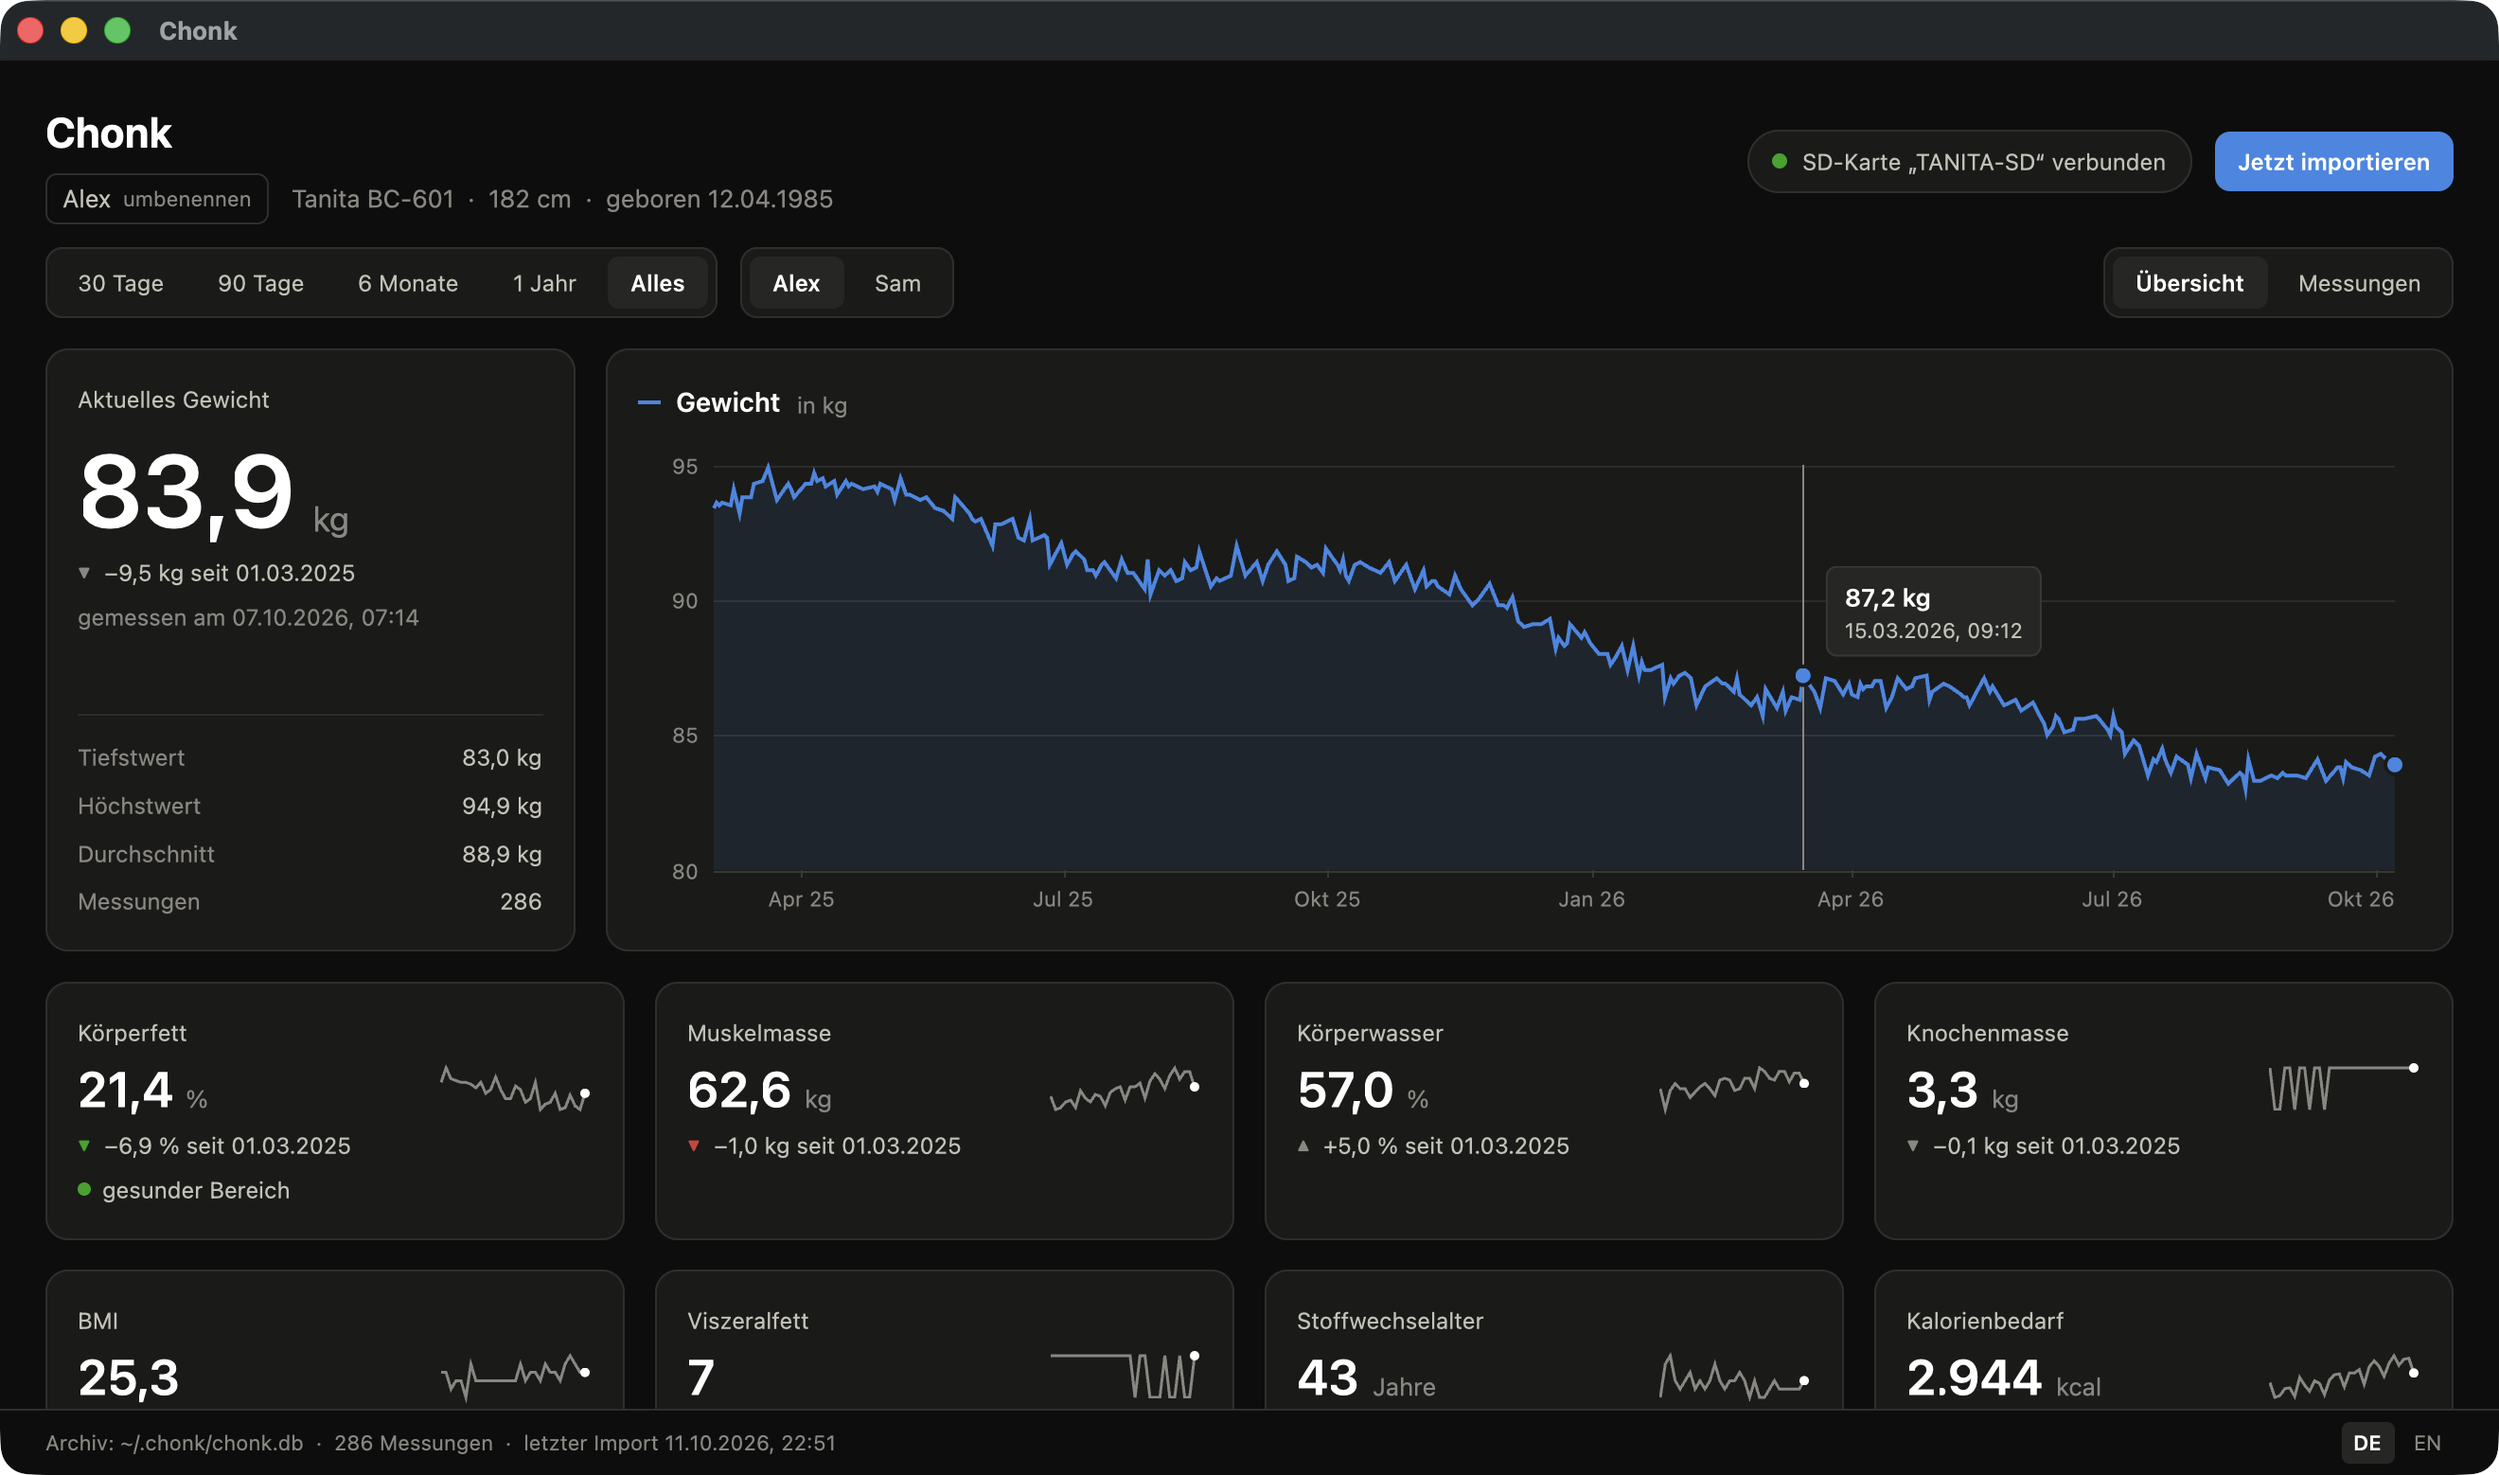
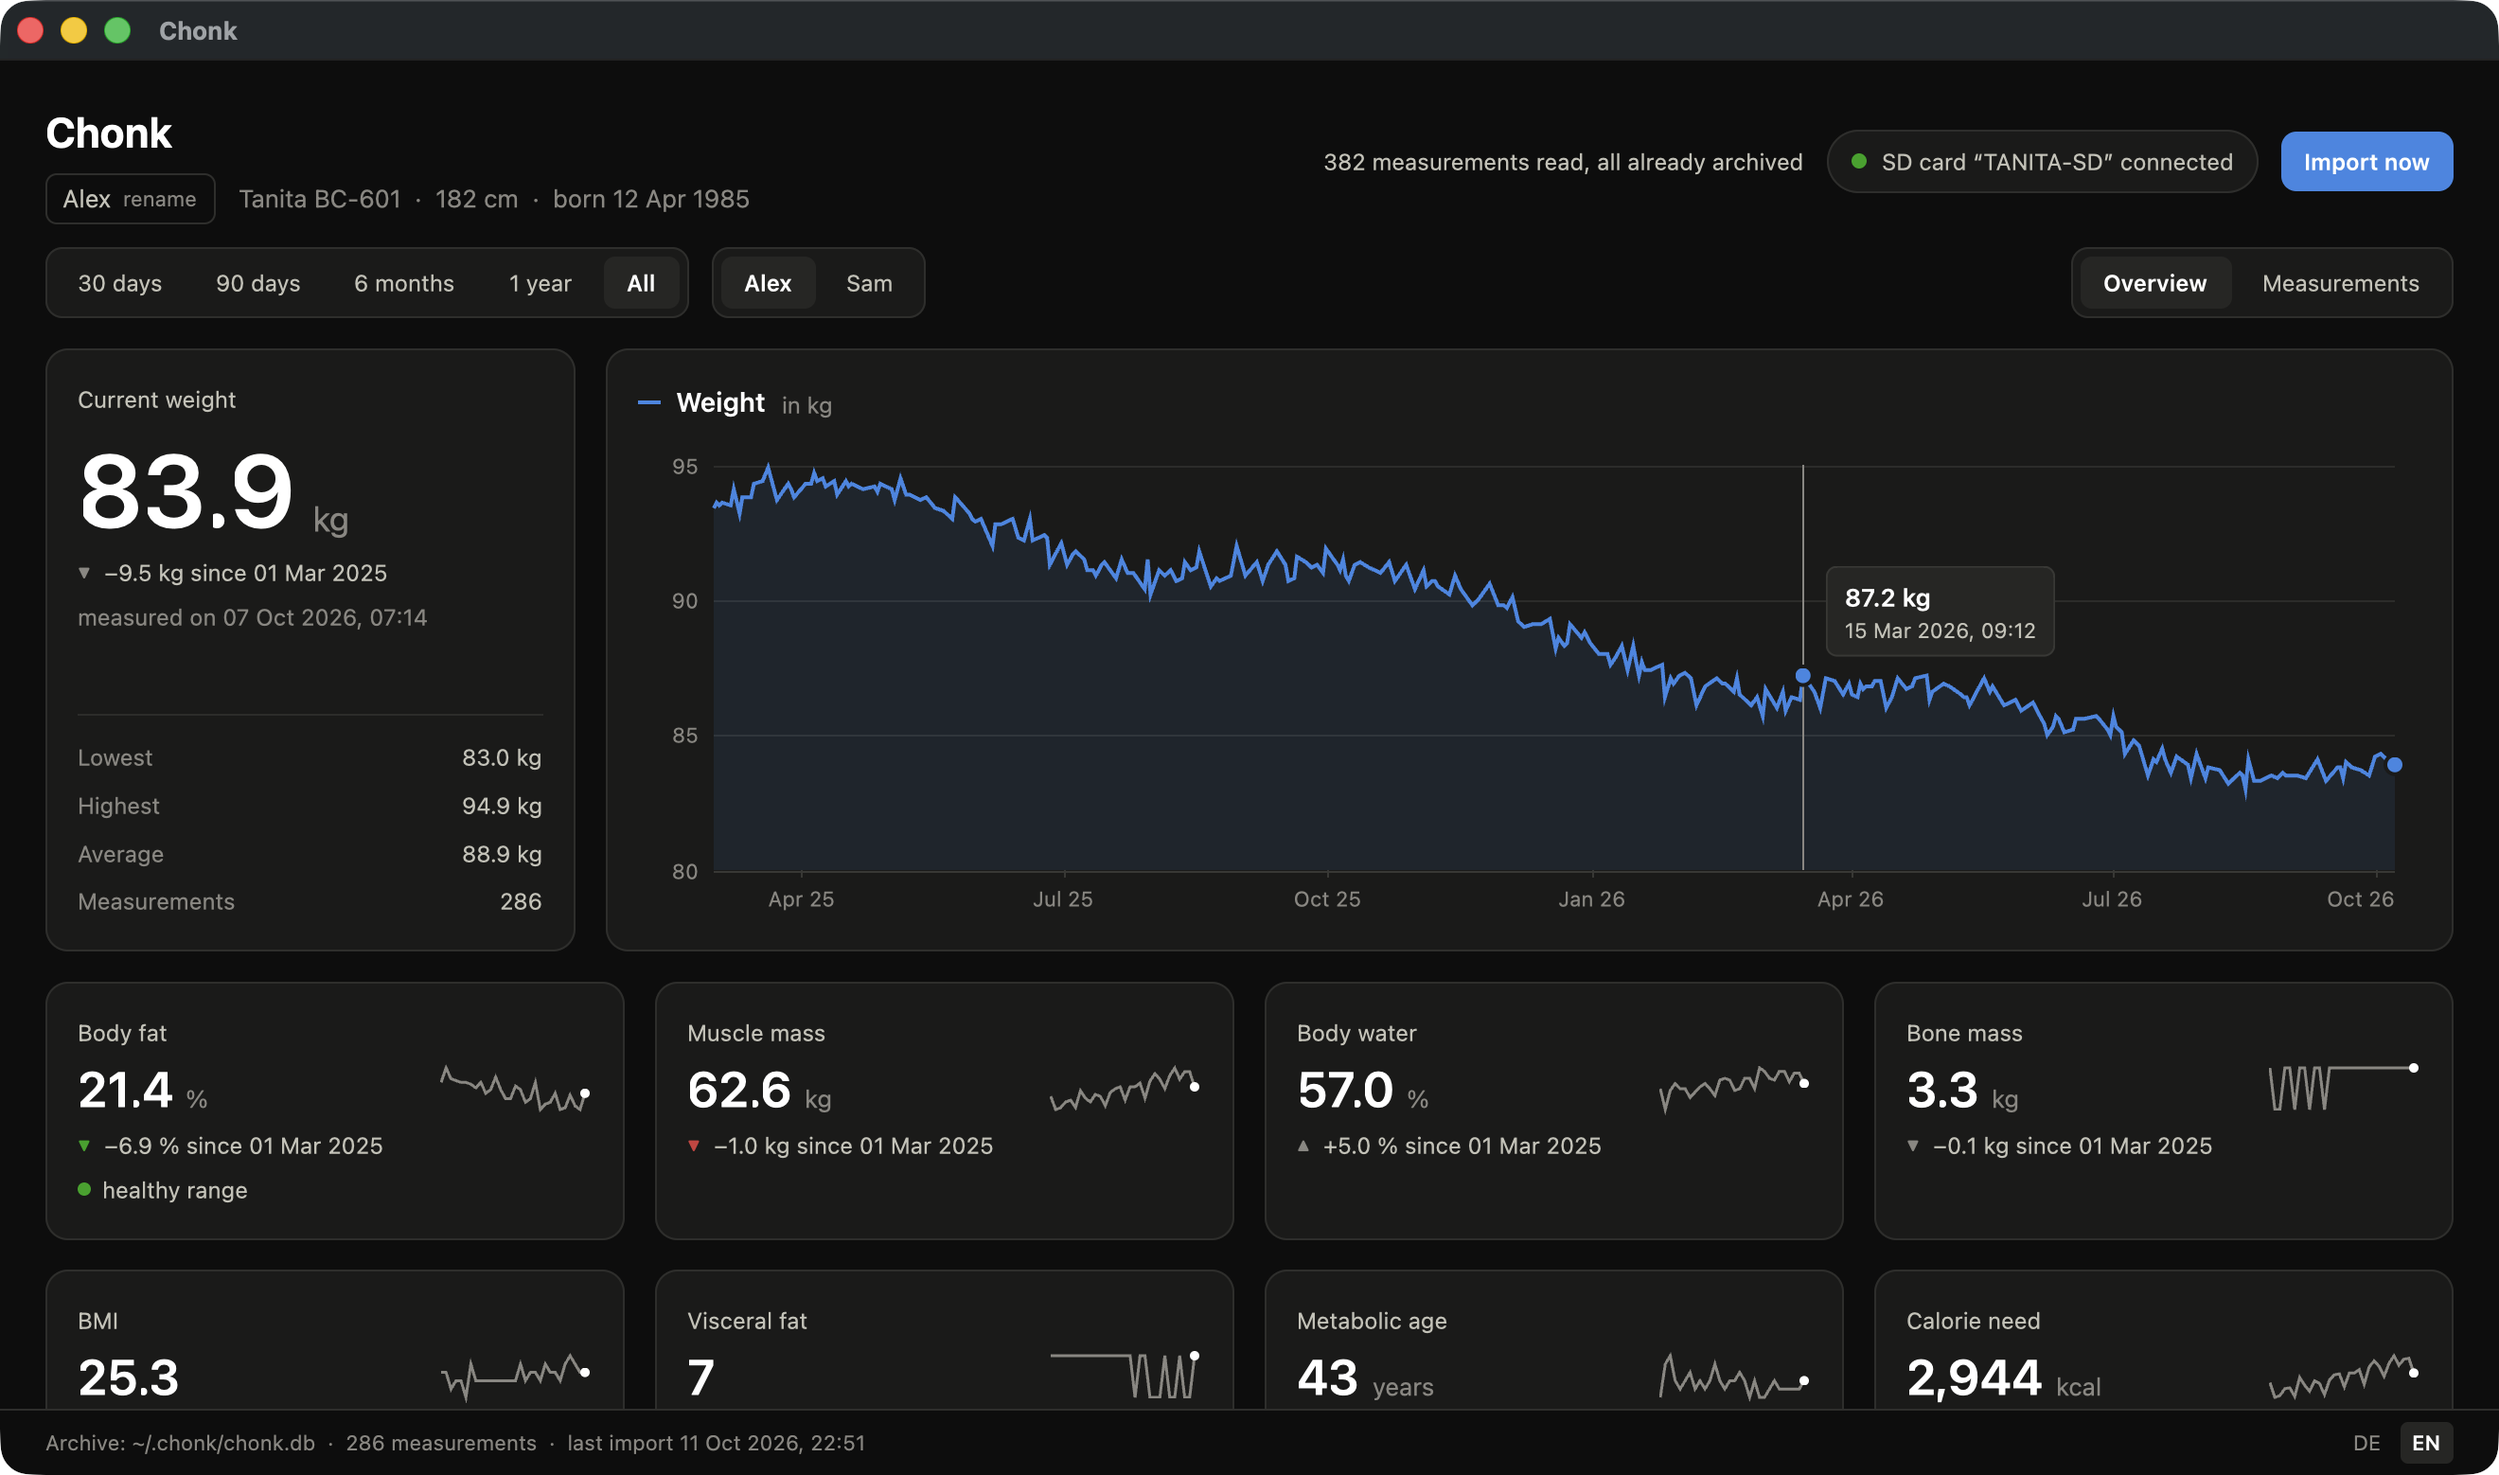
README und Screenshot auf Englisch

diff --git a/README.md b/README.md
@@ -1,103 +1,103 @@
 # Chonk
 
-Desktop-App (Rust + [gpui](https://www.gpui.rs)), die die Messungen einer
-Tanita-Körperanalysewaage (getestet mit der BC-601) von der SD-Karte liest,
-in einer lokalen SQLite-Datenbank archiviert und mit Diagrammen darstellt.
-Läuft unter macOS, Linux und Windows.
+A desktop app (Rust + [gpui](https://www.gpui.rs)) that reads the measurements
+of a Tanita body composition scale (tested with the BC-601) from its SD card,
+archives them in a local SQLite database and shows them as charts.
+Runs on macOS, Linux and Windows. The interface is available in English and
+German.
 
-![Übersicht der App mit Gewichtsverlauf, Kennzahlen und Profilumschalter](docs/screenshot.png)
+![Overview with weight trend, key figures and profile switcher](docs/screenshot.png)
 
-*Der Screenshot zeigt erfundene Beispieldaten.*
+*The screenshot shows made-up sample data.*
 
-## Installieren
+## Install
 
-Fertige Pakete hängen an den [Releases](../../releases):
+Ready-made packages are attached to the [releases](../../releases):
 
-| System | Paket | Hinweis |
+| System | Package | Note |
 |---|---|---|
-| macOS | `Chonk-…-macos-universal.zip` | Die App ist nicht notarisiert. Beim ersten Start per Rechtsklick „Öffnen" wählen oder `xattr -dr com.apple.quarantine Chonk.app` ausführen. |
-| Linux | `chonk-…-linux-x86_64.tar.gz` | Braucht Vulkan sowie Wayland oder X11. |
-| Windows | `chonk-…-windows-x86_64.zip` | `chonk.exe` direkt starten. |
+| macOS | `Chonk-…-macos-universal.zip` | The app is not notarized. On first launch, right-click and choose "Open", or run `xattr -dr com.apple.quarantine Chonk.app`. |
+| Linux | `chonk-…-linux-x86_64.tar.gz` | Needs Vulkan and either Wayland or X11. |
+| Windows | `chonk-…-windows-x86_64.zip` | Run `chonk.exe` directly. |
 
-## Selbst bauen
+## Build it yourself
 
 ```sh
 cargo run --release
 ```
 
-Unter Debian/Ubuntu vorher `script/linux-deps.sh` ausführen.
+On Debian/Ubuntu, run `script/linux-deps.sh` first.
 
-## Bedienung
+## Usage
 
-Die App sucht auf allen Wechseldatenträgern nach dem Ordner `TANITA/GRAPHV1`
-(macOS: `/Volumes`, Linux: `/run/media/$USER`, `/media`, `/mnt`, Windows: alle
-Laufwerksbuchstaben). Ist die Karte
-eingelegt (beim Start oder später), werden neue Messungen automatisch
-importiert. Bereits archivierte Messungen werden übersprungen, die Karte wird
-nur gelesen.
+Chonk looks for the folder `TANITA/GRAPHV1` on all removable drives (macOS:
+`/Volumes`, Linux: `/run/media/$USER`, `/media`, `/mnt`, Windows: every drive
+letter). When the card is present, at startup or later, new measurements are
+imported automatically. Measurements that are already archived are skipped,
+and the card is only ever read.
 
-Die Oberfläche gibt es auf Deutsch und Englisch. Beim ersten Start richtet sie
-sich nach der Systemsprache, umschalten lässt sie sich unten rechts.
+On first launch the language follows your system. You can switch it in the
+bottom right corner.
 
-Die Waage kennt acht Profile, aber keine Namen. Ein Klick auf den Profilnamen
-unter dem Titel vergibt einen eigenen Namen (Enter speichert, Esc bricht ab).
+The scale knows eight profiles but no names. Click the profile name below the
+title to give it a name of your own (Enter saves, Esc cancels).
 
-## Daten
+## Data
 
-| Was | Wo |
+| What | Where |
 |---|---|
-| Archiv | `~/.chonk/chonk.db` (SQLite), unter Windows `%USERPROFILE%\.chonk` |
-| Messungen | Tabelle `measurements`, eindeutig je Profil und Zeitpunkt, inklusive Originalzeile in `raw` |
-| Profile | Tabelle `profiles` (Slot 1–8 der Waage, eigener Name in `name`) |
-| Einstellungen | Tabelle `settings` (zum Beispiel die Sprache) |
-| Importprotokoll | Tabelle `imports` |
+| Archive | `~/.chonk/chonk.db` (SQLite), on Windows `%USERPROFILE%\.chonk` |
+| Measurements | Table `measurements`, unique per profile and timestamp, including the original line in `raw` |
+| Profiles | Table `profiles` (slots 1–8 of the scale, custom name in `name`) |
+| Settings | Table `settings` (for example the language) |
+| Import log | Table `imports` |
 
-Die App hieß früher „Fettsack". Ein vorhandenes Archiv unter `~/.fettsack`
-wird beim ersten Start automatisch nach `~/.chonk` umgezogen.
+The app used to be called "Fettsack". An existing archive in `~/.fettsack` is
+moved to `~/.chonk` automatically on first launch.
 
-Umgebungsvariablen zum Testen: `CHONK_HOME` (anderer Datenordner) und
-`CHONK_CARD` (Pfad zu einem `TANITA/GRAPHV1`-Ordner statt der Karte).
+Environment variables for testing: `CHONK_HOME` (a different data folder) and
+`CHONK_CARD` (path to a `TANITA/GRAPHV1` folder instead of the card).
 
-Eine Karte mit erfundenen Messwerten für zwei Profile erzeugt
-`script/fake-card.py`:
+`script/fake-card.py` creates a card with made-up measurements for two
+profiles:
 
 ```sh
 python3 script/fake-card.py /tmp/demo/TANITA/GRAPHV1
 CHONK_HOME=/tmp/demo/home CHONK_CARD=/tmp/demo/TANITA/GRAPHV1 cargo run
 ```
 
-## Dateiformat der Waage
+## The scale's file format
 
-`DATA/DATAn.CSV` enthält pro Messung eine Zeile aus Schlüssel-Wert-Paaren,
-`SYSTEM/PROFn.CSV` das Profil. `n` ist der Profil-Slot.
+`DATA/DATAn.CSV` holds one line of key-value pairs per measurement,
+`SYSTEM/PROFn.CSV` holds the profile. `n` is the profile slot.
 
-| Schlüssel | Bedeutung |
+| Key | Meaning |
 |---|---|
-| `MO` | Modell |
-| `DT`, `Ti` | Datum (`TT/MM/JJJJ`) und Uhrzeit |
-| `Bt`, `GE`, `AG`, `Hm`, `AL` | Körpertyp, Geschlecht, Alter, Größe in cm, Aktivitätslevel |
-| `Wk`, `MI` | Gewicht in kg, BMI |
-| `FW` | Körperfett gesamt in % |
-| `Fr`, `Fl`, `FR`, `FL`, `FT` | Fett in % für rechten/linken Arm, rechtes/linkes Bein, Rumpf |
-| `mW` | Muskelmasse gesamt in kg |
-| `mr`, `ml`, `mR`, `mL`, `mT` | Muskelmasse in kg, gleiche Segmente |
-| `bW` | Knochenmasse in kg |
-| `IF` | Viszeralfett-Stufe |
-| `rD`, `rA` | täglicher Kalorienbedarf in kcal, Stoffwechselalter |
-| `ww` | Körperwasser in % |
-| `CS` | Prüfsumme: Summe aller Bytes vor `CS` modulo 256, hexadezimal |
+| `MO` | Model |
+| `DT`, `Ti` | Date (`DD/MM/YYYY`) and time |
+| `Bt`, `GE`, `AG`, `Hm`, `AL` | Body type, gender, age, height in cm, activity level |
+| `Wk`, `MI` | Weight in kg, BMI |
+| `FW` | Total body fat in % |
+| `Fr`, `Fl`, `FR`, `FL`, `FT` | Fat in % for right/left arm, right/left leg, trunk |
+| `mW` | Total muscle mass in kg |
+| `mr`, `ml`, `mR`, `mL`, `mT` | Muscle mass in kg, same segments |
+| `bW` | Bone mass in kg |
+| `IF` | Visceral fat level |
+| `rD`, `rA` | Daily calorie need in kcal, metabolic age |
+| `ww` | Body water in % |
+| `CS` | Checksum: sum of all bytes before `CS` modulo 256, hexadecimal |
 
-Zeilen mit falscher Prüfsumme werden beim Import übersprungen.
+Lines with a wrong checksum are skipped during import.
 
-## Entwicklung
+## Development
 
-- gpui wird mit dem Feature `runtime_shaders` gebaut. Unter macOS genügen
-  dadurch die Xcode Command Line Tools, ein vollständiges Xcode ist nicht nötig.
-- Übersetzungen stehen in `src/i18n.rs`. Feste Texte sind Felder einer
-  Struktur, der Compiler meldet also fehlende Übersetzungen.
-- Der Workflow `CI` prüft jeden Push unter Linux, macOS und Windows
-  (Formatierung, Clippy, Tests). Abhängigkeiten werden zwischen den Läufen
-  gecacht, reine Doku-Änderungen lösen keinen Lauf aus.
-- Der Workflow `Release` startet, sobald auf GitHub ein Release veröffentlicht
-  wird (Releases → „Draft a new release" → Tag wie `v0.1.0` wählen →
-  „Publish release"). Er baut die Pakete und hängt sie an das Release.
+- gpui is built with the `runtime_shaders` feature. On macOS the Xcode Command
+  Line Tools are therefore enough, a full Xcode install is not needed.
+- Translations live in `src/i18n.rs`. Fixed texts are fields of a struct, so
+  the compiler reports missing translations.
+- The `CI` workflow checks every push on Linux, macOS and Windows (formatting,
+  Clippy, tests). Dependencies are cached between runs, and documentation-only
+  changes do not trigger a run.
+- The `Release` workflow starts when a release is published on GitHub
+  (Releases → "Draft a new release" → pick a tag such as `v0.1.0` → "Publish
+  release"). It builds the packages and attaches them to the release.
